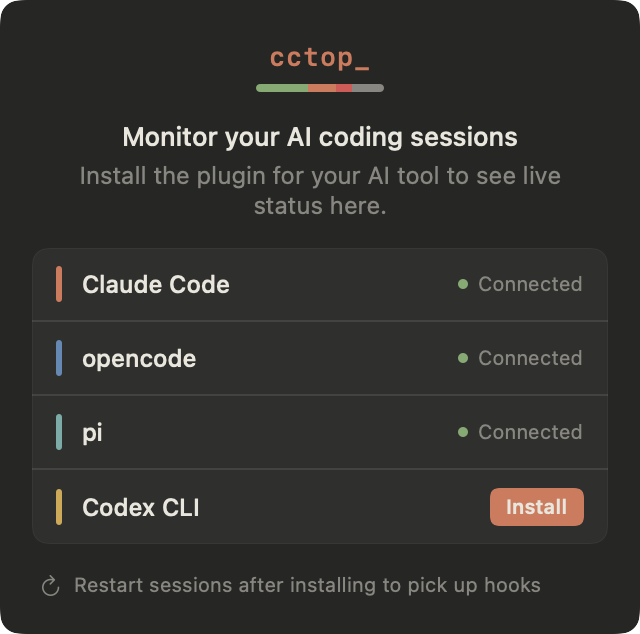
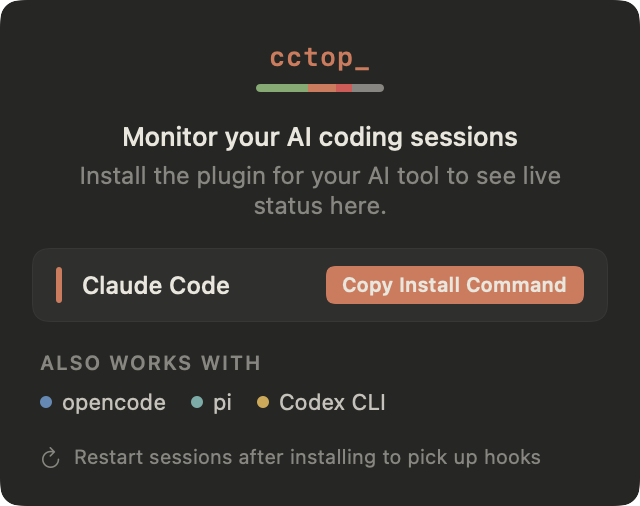
Reshoot empty state as first-run onboarding pitch
Switches the canonical screenshot fixture from a mixed Connected/Install
state to a fully fresh first-run: nothing installed, no opencode/pi/Codex
configs detected. The result is the single-CTA pitch image — one
"Copy Install Command" button for Claude Code, three colored discovery
dots for the other supported agents — suitable for the marketing site
to demonstrate how little setup the app needs.

diff --git a/menubar/CctopMenubarTests/SnapshotTests.swift b/menubar/CctopMenubarTests/SnapshotTests.swift
@@ -25,10 +25,10 @@ final class SnapshotTests: XCTestCase {
         try renderScreenshot(view: view, colorScheme: .dark, filename: "menubar-navigate.png")
     }
 
-    /// Renders the EmptyStateView showcase (Claude Code + opencode + pi connected,
-    /// Codex CLI pending install) in light + dark for use in the README and marketing
-    /// site. The mixed state shows both `Connected` pills and the `Install` button so
-    /// every visual treatment is exercised in a single shot.
+    /// Renders the EmptyStateView in its first-run "nothing installed" form
+    /// (only Claude Code as the installable card, opencode/pi/Codex CLI surfaced
+    /// in the muted "Also works with" footer) for use in the README and marketing
+    /// site. This is the cleanest onboarding pitch — one CTA, three discovery dots.
     ///
     /// Run with:
     ///   xcodebuild test -project menubar/CctopMenubar.xcodeproj -scheme CctopMenubar \
@@ -36,14 +36,14 @@ final class SnapshotTests: XCTestCase {
     ///     -derivedDataPath menubar/build/ CODE_SIGN_IDENTITY="-"
     func testGenerateEmptyStateScreenshot() throws {
         let pm = PluginManager()
-        pm.ccInstalled = true
-        pm.ocInstalled = true
-        pm.ocConfigExists = true
+        pm.ccInstalled = false
+        pm.ocInstalled = false
+        pm.ocConfigExists = false
         pm.ocNeedsUpdate = false
-        pm.piInstalled = true
-        pm.piConfigExists = true
+        pm.piInstalled = false
+        pm.piConfigExists = false
         pm.codexInstalled = false
-        pm.codexConfigExists = true
+        pm.codexConfigExists = false
         pm.codexNeedsUpdate = false
         let view = EmptyStateView(pluginManager: pm)
         try renderScreenshot(view: view, colorScheme: .light, filename: "empty-state-light.png")
